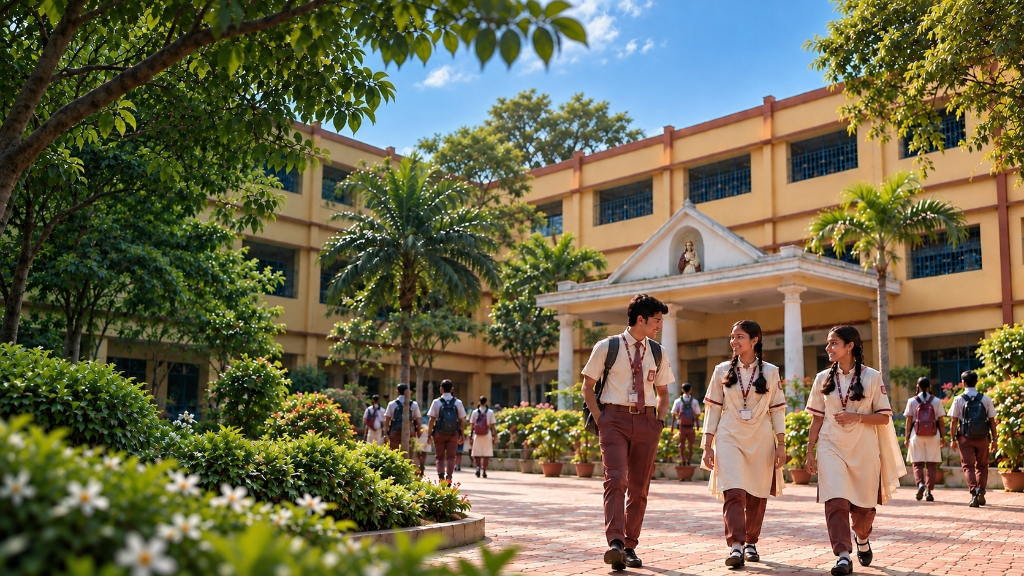
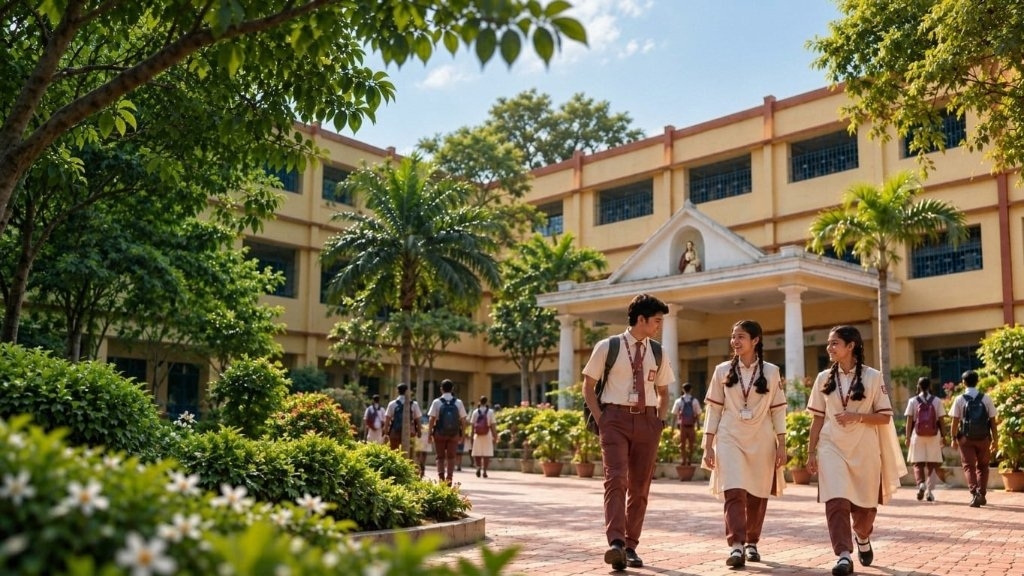
content: replace hero background image with new color-graded asset and remove artificial CSS brightness filters

diff --git a/client/src/pages/Home.jsx b/client/src/pages/Home.jsx
@@ -253,7 +253,7 @@ const Home = () => {
                 <img 
                   src="/images/hero/home-hero-students.webp" 
                   alt="Mount Carmel School" 
-                  className="w-full h-full object-cover object-center brightness-110"
+                  className="w-full h-full object-cover object-center"
                   fetchpriority="high"
                   width="1024"
                   height="576"
